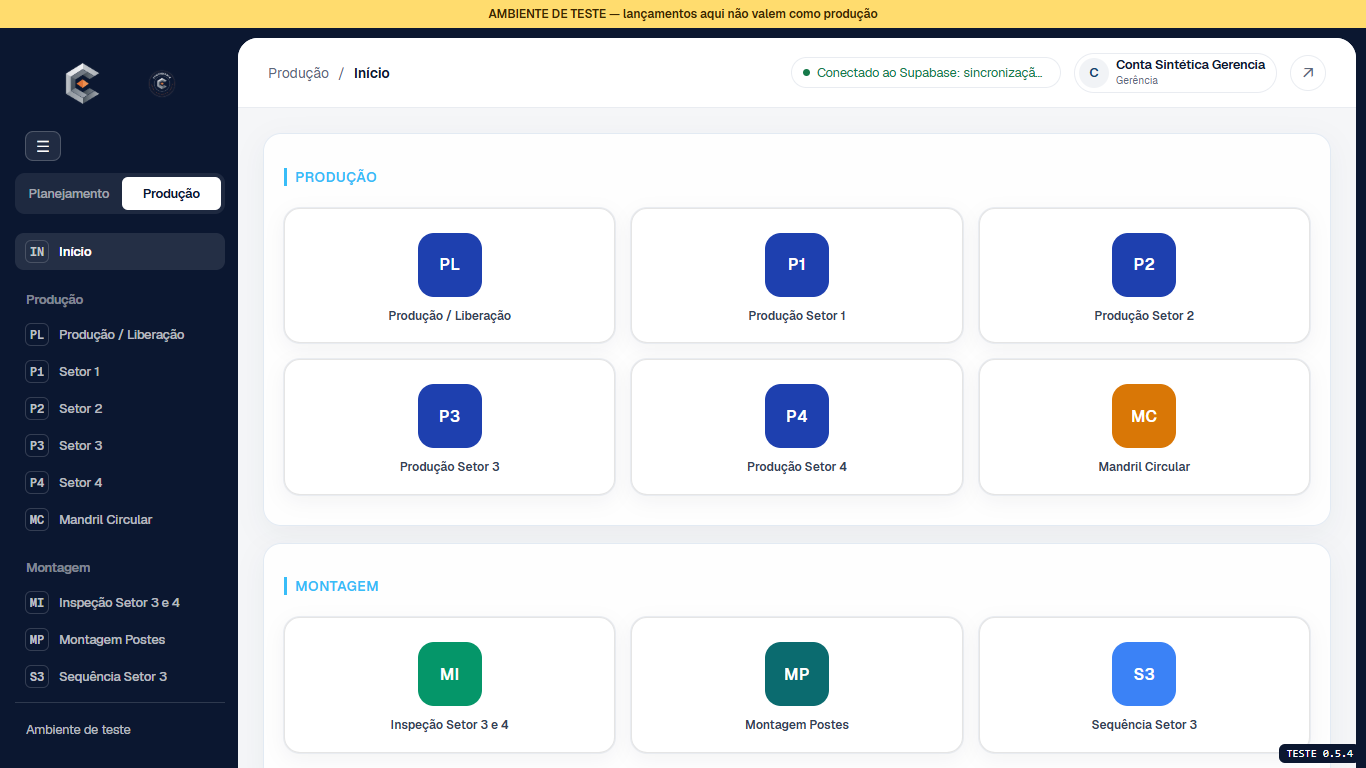
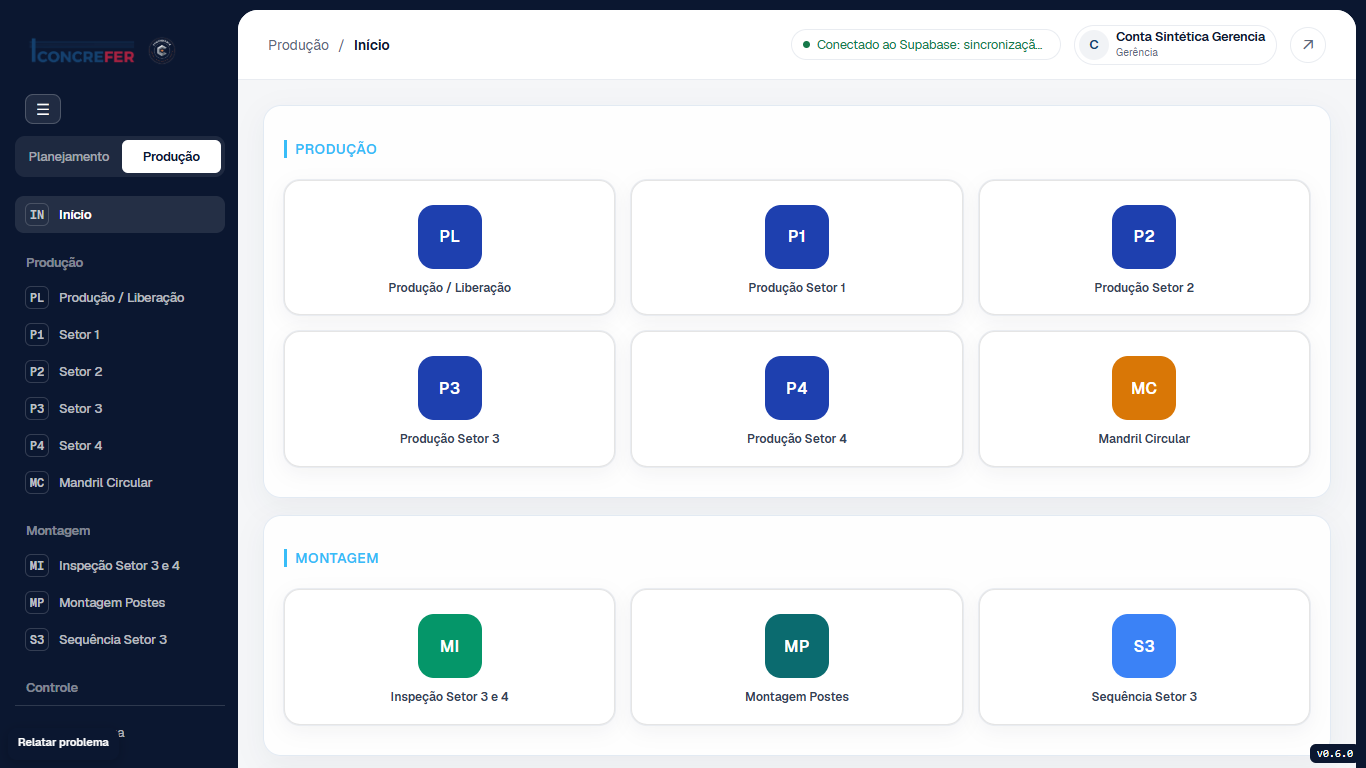
test(unificado): validar cache anterior na 0.6.0

diff --git a/tests/unificado/old_cache_published.py b/tests/unificado/old_cache_published.py
@@ -6,7 +6,7 @@ import json
 from pathlib import Path
 import subprocess
 
-from playwright.sync_api import sync_playwright
+from playwright.sync_api import Error as PlaywrightError, sync_playwright
 
 
 BASE = "https://concrefer.concretrack.com.br"
@@ -41,7 +41,13 @@ def main() -> None:
         if page.locator("body.kiosk-active").count():
             page.locator("#btnKioskBack:visible").click(timeout=5000)
         page.wait_for_timeout(1500)
-        page.reload(wait_until="domcontentloaded")
+        try:
+            page.reload(wait_until="domcontentloaded")
+        except PlaywrightError as error:
+            # A newly activated worker can replace the document while reload is
+            # waiting; the following readiness checks validate the final page.
+            if "ERR_ABORTED" not in str(error):
+                raise
         page.wait_for_function("version => document.querySelector('#unificado-version')?.textContent.includes(version)",
                                arg=expected, timeout=20000)
         page.wait_for_function("typeof state !== 'undefined' && state.authUser?.role === 'GERENCIA'", timeout=20000)
